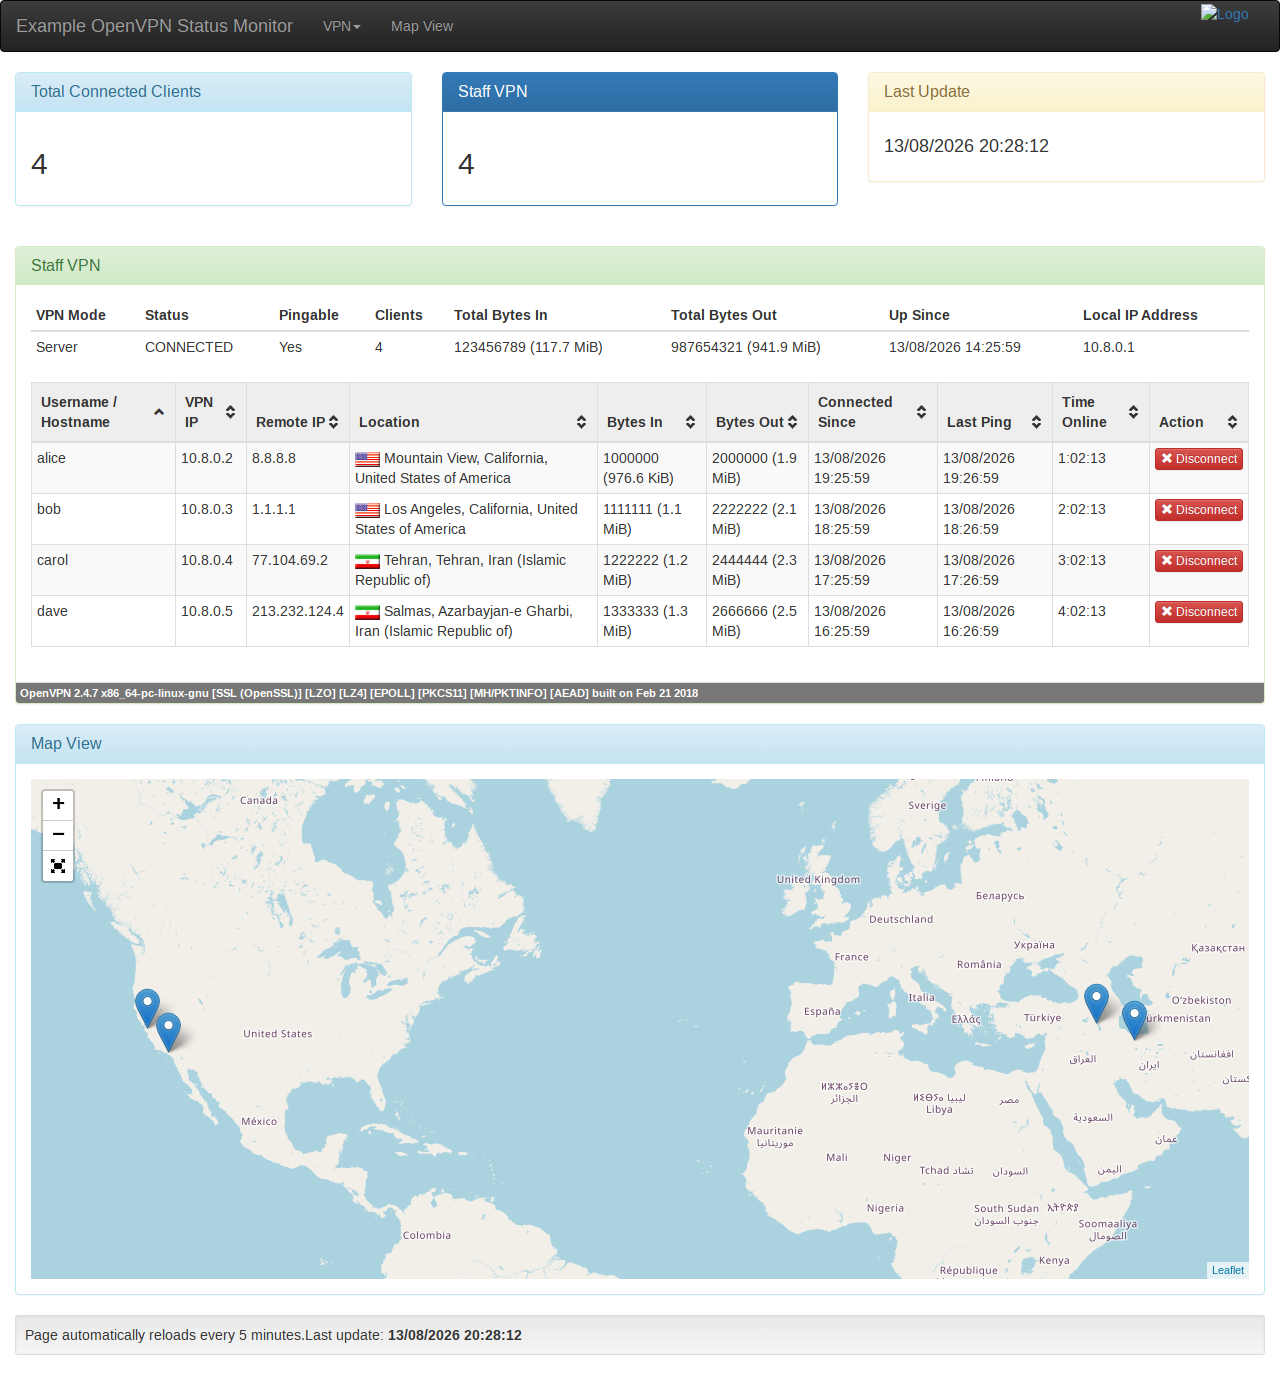
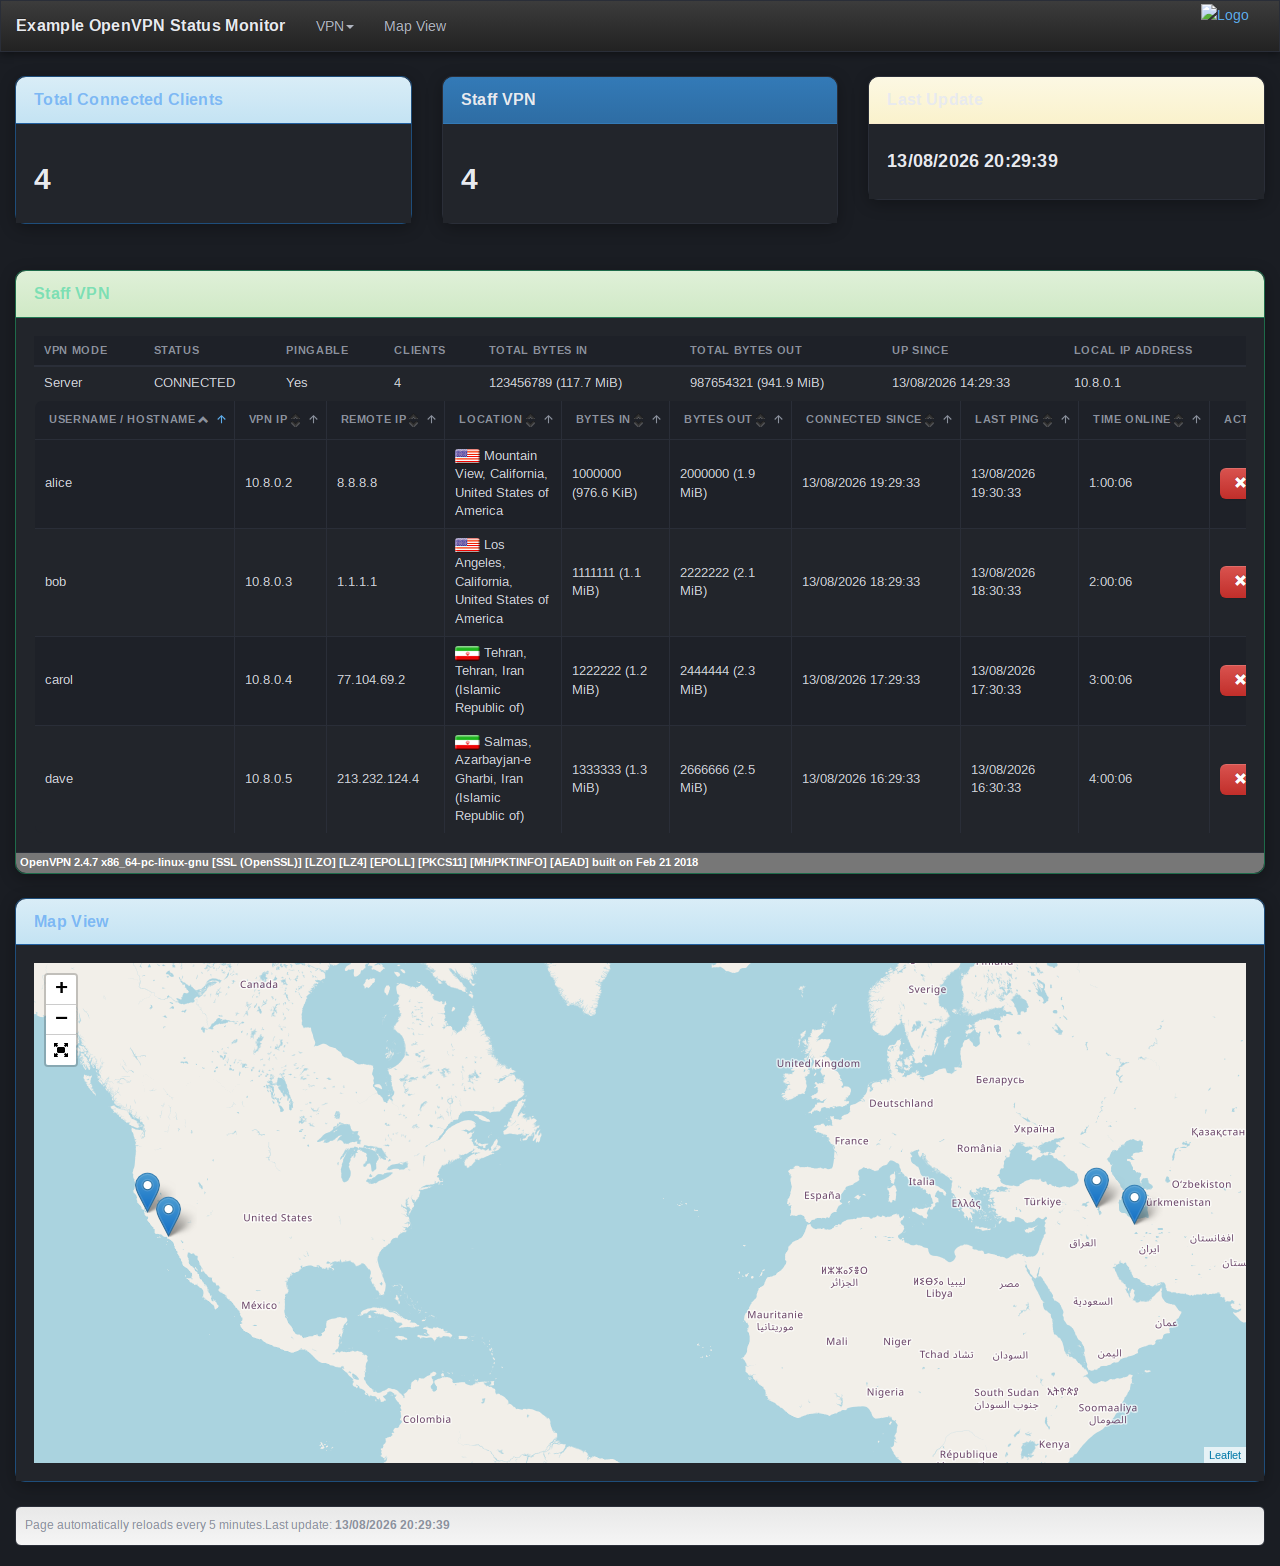
fix: serve /static/* files (style.css was 404 — theme now actually applies); re-screenshot

diff --git a/openvpn-monitor.py b/openvpn-monitor.py
@@ -1045,6 +1045,11 @@ def monitor_wsgi():
     def get_images(filename):
         return static_file(filename, image_dir)
 
+    @app.route('/static/<filename:path>', method='GET')
+    def get_static(filename):
+        return static_file(filename, root=os.path.join(
+            os.path.dirname(os.path.abspath(__file__)), 'static'))
+
     return app
 
 
